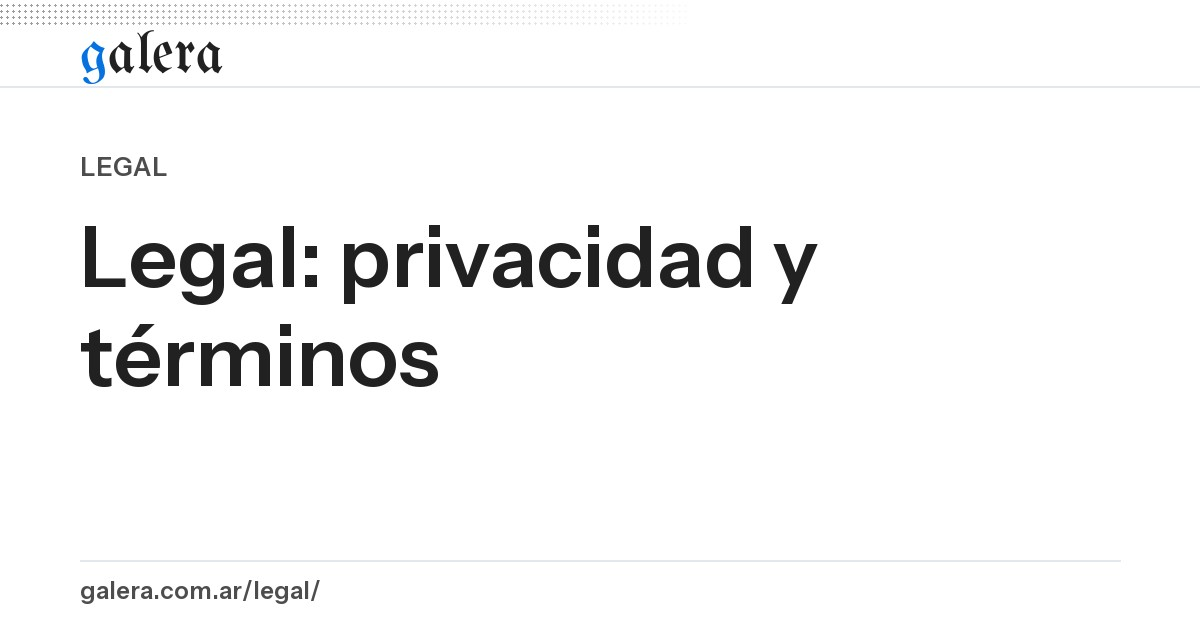
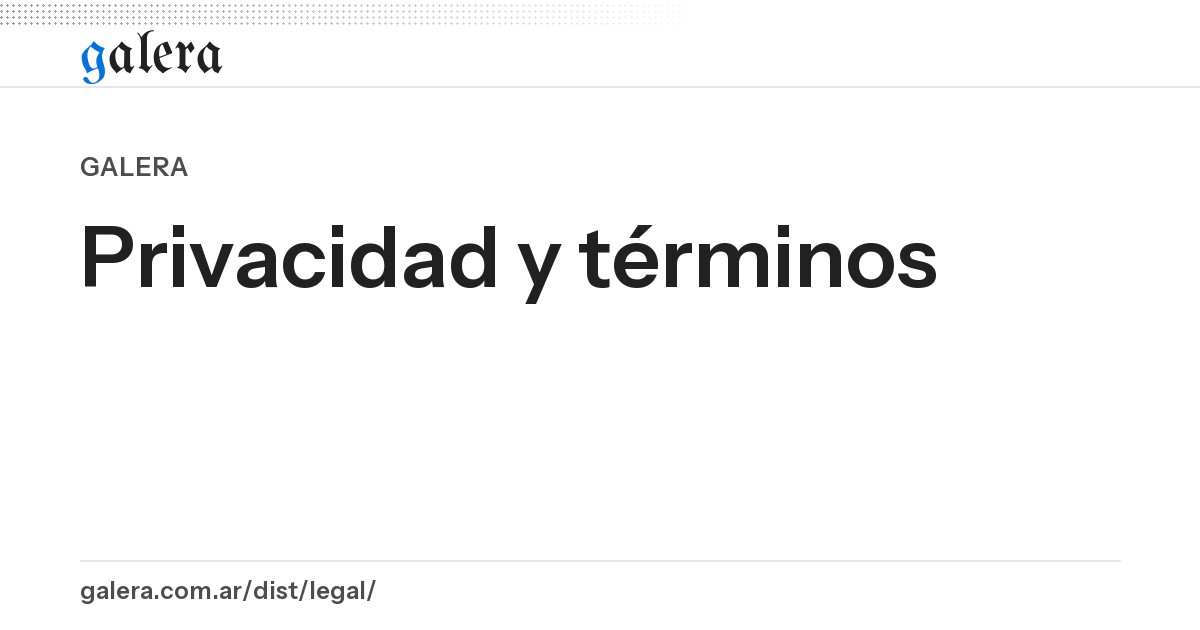
v108: Privacidad y «Cómo se sostiene», rehechas (#29)
* v108: privacidad y Cómo se sostiene con la capa gl-, mecenas y plan al día

* v108: revisión: g azul de la cabecera, costos sin placeholders

---------

diff --git a/sostener/index.html b/sostener/index.html
@@ -5,16 +5,16 @@
 <meta name="viewport" content="width=device-width, initial-scale=1">
 <!--marco:csp-->
 <!--marco:meta-->
-<!-- Página de Galera (la arma 104-edicion-cursada/sostener_web.py: no editar a mano). -->
+<!-- La arma propuestas/2026-10-31-revamp-galera/gen_legal_sostener.py a partir de datos/: no editar a mano. -->
 <title>Cómo se sostiene Galera: horas, costos y plan</title>
-<meta name="description" content="Cuántas horas de trabajo lleva Galera, qué cuesta, cómo ayudar si querés y el plan de lo que viene. Gratis, sin cuenta y sin publicidad.">
+<meta name="description" content="Cuántas horas de trabajo lleva Galera, qué cuesta, cómo ayudar con plata o con tiempo y el plan de lo que viene. Gratis, sin cuenta y sin publicidad.">
 <meta name="robots" content="index, follow">
 <link rel="canonical" href="https://galera.com.ar/sostener/">
 <meta property="og:type" content="website">
 <meta property="og:site_name" content="Galera · Edición (UBA)">
 <meta property="og:locale" content="es_AR">
 <meta property="og:title" content="Cómo se sostiene Galera: horas, costos y plan">
-<meta property="og:description" content="Cuántas horas de trabajo lleva Galera, qué cuesta, cómo ayudar si querés y el plan de lo que viene. Gratis, sin cuenta y sin publicidad.">
+<meta property="og:description" content="Cuántas horas de trabajo lleva Galera, qué cuesta, cómo ayudar con plata o con tiempo y el plan de lo que viene. Gratis, sin cuenta y sin publicidad.">
 <meta property="og:url" content="https://galera.com.ar/sostener/">
 <meta property="og:image" content="https://galera.com.ar/sostener/img/sostener.jpg">
 <meta property="og:image:type" content="image/jpeg">
@@ -23,30 +23,44 @@
 <meta property="og:image:alt" content="Cómo se sostiene Galera: horas de trabajo, costos y plan">
 <meta name="twitter:card" content="summary_large_image">
 <!--marco:recursos-->
-<script type="application/ld+json">{"@context": "https://schema.org", "@type": "WebPage", "name": "Cómo se sostiene Galera", "description": "Cuántas horas de trabajo lleva Galera, qué cuesta, cómo ayudar si querés y el plan de lo que viene. Gratis, sin cuenta y sin publicidad.", "url": "https://galera.com.ar/sostener/", "inLanguage": "es-AR", "image": "https://galera.com.ar/sostener/img/sostener.jpg", "author": {"@type": "Person", "name": "Fidel Chaves", "url": "https://ficha.github.io/"}, "isPartOf": {"@type": "WebApplication", "name": "Galera", "url": "https://galera.com.ar/"}}</script>
+<script type="application/ld+json">{"@context": "https://schema.org", "@type": "WebPage", "name": "Cómo se sostiene Galera", "description": "Cuántas horas de trabajo lleva Galera, qué cuesta, cómo ayudar con plata o con tiempo y el plan de lo que viene. Gratis, sin cuenta y sin publicidad.", "url": "https://galera.com.ar/sostener/", "inLanguage": "es-AR", "image": "https://galera.com.ar/sostener/img/sostener.jpg", "dateModified": "2026-10-31", "author": {"@type": "Person", "name": "Fidel Chaves", "url": "https://ficha.github.io/"}, "isPartOf": {"@type": "WebApplication", "name": "Galera", "url": "https://galera.com.ar/"}}</script>
 <script type="application/ld+json">{"@context": "https://schema.org", "@type": "BreadcrumbList", "itemListElement": [{"@type": "ListItem", "position": 1, "name": "Galera", "item": "https://galera.com.ar/"}, {"@type": "ListItem", "position": 2, "name": "Cómo se sostiene", "item": "https://galera.com.ar/sostener/"}]}</script>
 </head>
 <body class="lectura">
 <!--marco:cabecera-->
 <main id="main" class="lectura-main">
 <nav class="migas chico tenue" aria-label="Ruta"><a href="/">Galera</a> › <span>Cómo se sostiene</span></nav>
-<article class="tarjeta apunte"><p class="chico tenue">Galera · Edición, FFyL, UBA</p><h1>Cómo se sostiene Galera</h1>
-<p>Galera es gratis, no pide cuenta y no tiene publicidad. La hace Fidel Chaves, estudiante de Edición. Esta página cuenta cuánto trabajo lleva, cuánto cuesta y cómo ayudar si querés.</p>
-<p class="acciones"><a class="btn" href="/#sostener" data-abrir="sostener" data-donde="arriba">Abrir en Galera</a></p>
-<h2>Horas de trabajo</h2>
-<p><b>27,6 horas</b> desde el 30 de septiembre de 2026, en 21 sesiones. Actualizado el 19 de octubre de 2026.</p>
-<ul><li>septiembre de 2026: 1,8 horas</li><li>octubre de 2026: 25,8 horas</li></ul>
-<p class="chico tenue">Cómo se cuenta: se toman todos los cambios que se guardaron en Galera y se juntan en sesiones (si entre un cambio y el siguiente pasaron menos de 2 horas, es la misma sesión). A cada sesión se le suman 30 minutos de arranque. Es una estimación, y se puede verificar en el <a href="https://github.com/Ficha/Ficha.github.io/commits/main/cursada" rel="noopener">historial público</a>.</p>
-<h2>Costos</h2>
-<ul><li>Claude Pro (la herramienta con la que se arma Galera): <b>USD 20 por mes + impuestos vigentes</b></li><li>Parte de ese gasto que va a Galera (se calcula con un script local, próximamente): <b>a calcular</b></li><li>Dominio: <b>$0</b></li><li>GitHub Pages (donde vive la página): <b>$0</b></li></ul>
-<p class="chico tenue">Actualizado el 15 de octubre de 2026.</p>
+<h1>Cómo se sostiene</h1>
+<p>Galera es gratis, no pide cuenta y no tiene publicidad. Acá está cuánto trabajo lleva, qué cuesta y cómo ayudar.</p>
+<div class="gl-doc gl-doc--izq">
+<div class="gl-principal">
+<p class="capital gl-lead">Galera la hago yo, Fidel Chaves, estudiante de Edición, en mi tiempo libre. No pide registro ni vende datos: lo que cargás queda en tu dispositivo.</p>
+<h2 id="horas">Horas de trabajo</h2>
+<p class="gl-cifra">Entre 25 y 36 horas</p>
+<p>de trabajo entre el 30 de septiembre de 2026 y el 20 de octubre de 2026; lo más probable, unas 30. Actualizado el 20 de octubre de 2026.</p>
+<p class="gl-chico">Cómo se cuenta: junto en una sola línea de tiempo cada cambio guardado en Galera y la hora de cada mensaje de mis sesiones de trabajo con Claude (solo la hora, nunca el contenido), y cuento una sesión mientras no pasen más de 10, 20 o 45 minutos sin actividad (más unos minutos de arranque). De ahí salen el mínimo, el valor central y el máximo. Es una estimación y no incluye el tiempo fuera de la pantalla, como pensar o probar en el celular. Solo con los cambios guardados, que cualquiera puede verificar en el <a href="https://github.com/Ficha/Ficha.github.io/commits/main/cursada" rel="noopener">historial público</a>, son 46,5 horas (sesiones de hasta dos horas entre cambios, más 30 minutos de arranque).</p>
+<h2 id="costos">Qué cuesta</h2>
+<ul class="gl-renglones"><li><span>Claude Pro (la herramienta con la que se arma Galera)</span><b>USD 20 por mes + impuestos vigentes</b></li><li><span>Parte de ese gasto que va a Galera <span class="gl-chico">Voy a medirlo con un script propio.</span></span><b>Sin calcular todavía</b></li><li><span>Dominio galera.com.ar <span class="gl-chico">Se renueva en NIC Argentina.</span></span><b>Un pago por año</b></li><li><span>GitHub Pages y Cloudflare (donde vive la página y los correos)</span><b>$0</b></li></ul>
+<p class="gl-chico">Actualizado el 31 de octubre de 2026.</p>
 <p>Con más apoyo podría pagar un plan superior de Claude y avanzar más frentes por semana.</p>
-<h2>Cómo ayudar</h2>
-<p>Podés transferir lo que quieras desde cualquier banco o billetera, sin comisión: alias <b>fidel.mercado</b> (el CVU está en la pantalla de la app). También podés invitarme un <a href="https://cafecito.app/fidelchaves" target="_blank" rel="noopener">cafecito</a>. ¿Querés ayudar de otra forma? Escribime a <a href="mailto:fidelchaves96@gmail.com">fidelchaves96@gmail.com</a>.</p>
-<h2>Tu ayuda me permitiría seguir con este plan</h2>
-<h3>Ahora</h3><ul><li><b>Cómo se sostiene</b> (Listo): Esta pantalla: cuántas horas lleva Galera, qué cuesta y cómo ayudar.</li><li><b>Fichas de leyes del libro y del autor</b> (Planeado): Un resumen en palabras simples de las leyes que importan en edición.</li><li><b>Resúmenes de Derechos Editoriales y del Autor</b> (Planeado): Apuntes para estudiar la materia, con autoevaluación.</li><li><b>Botón Compartir</b> (Listo): Mandar por WhatsApp o copiar el link de la pantalla que estás viendo.</li></ul><h3>Verano</h3><ul><li><b>Simuladores nuevos</b> (Planeado): Más calculadoras y mapas para hacer las cuentas del oficio.</li><li><b>Generador de contratos para profesionales</b> (Planeado): Armar un contrato de edición a partir de modelos, para revisarlo con un abogado.</li><li><b>Tarifario del sector</b> (Planeado): Cuánto se cobra por corrección, traducción, diseño y otras tareas editoriales.</li><li><b>Mapa de editoriales argentinas</b> (Planeado): Dónde están las editoriales del país y qué publican.</li><li><b>Nueva organización en 5 secciones con buscador único</b> (Planeado): Encontrar todo más rápido, con un solo lugar para buscar.</li><li><b>Pasar tus datos a otro dispositivo</b> (Planeado): Seguir en el celular lo que hiciste en la compu, con un link o un código QR.</li></ul><h3>1.er cuatrimestre 2027</h3><ul><li><b>Herramientas del libro para profesionales</b> (Planeado): Utilidades para quienes ya trabajan en edición, más allá de la cursada.</li><li><b>Más resúmenes según los aportes</b> (Planeado): Se suman materias y apuntes a medida que llegan textos para armarlos.</li></ul>
-<p class="acciones"><a class="btn" href="/#sostener" data-abrir="sostener" data-donde="abajo">Abrir en Galera</a></p>
-</article>
+<h2 id="ayudar">Trabajar conmigo y colaborar</h2>
+<p>Hay tres maneras de ayudar. Todas son opcionales.</p>
+<ul class="gl-formas">
+<li><b>Con plata</b><p>Un aporte único, del monto que quieras, por <a href="https://cafecito.app/fidelchaves" target="_blank" rel="noopener">Cafecito</a> o por transferencia al alias <b>fidel.mercado</b>, sin comisión. El CVU está en la <a href="/#sostener">pantalla de la app</a>.</p></li>
+<li><b>Con tiempo</b><p>Avisame de un error, sugerime lo que falta o mandame tus apuntes para sumarlos: los reviso a mano antes de publicarlos. Se hace desde «Contame qué falta» o por mail.</p></li>
+<li><b>Un proyecto en común</b><p>Si tenés un proyecto editorial en el que pueda sumar con corrección, redacción o armado de contenidos, contame. Escribime a <a href="mailto:hola@galera.com.ar">hola@galera.com.ar</a>.</p></li>
+</ul>
+<h2 id="mecenas">Mecenas</h2>
+<div class="gl-mecenas"><b>Todavía no hay mecenas.</b><p>Acá van a figurar quienes apoyen a Galera con un aporte y quieran que se sepa. Nadie figura sin que lo pida. Si hacés un aporte y querés estar, escribime a <a href="mailto:hola@galera.com.ar">hola@galera.com.ar</a> con el nombre que prefieras.</p></div>
+<h2 id="plan">Tu ayuda me permitiría seguir con este plan</h2>
+<h3>Ahora</h3><ul class="gl-plan"><li><div><b>Cómo se sostiene</b><p>Esta pantalla: cuántas horas lleva Galera, qué cuesta y cómo ayudar.</p></div><span class="gl-chip gl-chip--ok">Listo</span></li><li><div><b>Fichas de leyes del libro y del autor</b><p>Un resumen en palabras simples de las leyes que importan en edición. Ya hay una primera tanda publicada.</p></div><span class="gl-chip">En curso</span></li><li><div><b>Resúmenes de Derechos Editoriales y del Autor</b><p>Apuntes para estudiar la materia, con autoevaluación. Ya están los doce apuntes; faltan confirmar algunos datos marcados.</p></div><span class="gl-chip">En curso</span></li><li><div><b>Botón Compartir</b><p>Mandar por WhatsApp o copiar el link de la pantalla que estás viendo.</p></div><span class="gl-chip gl-chip--ok">Listo</span></li></ul><h3>Verano</h3><ul class="gl-plan"><li><div><b>Simuladores nuevos</b><p>Más calculadoras y mapas para hacer las cuentas del oficio. Ya están papel, formatos, paginación, cronograma, escandallo, comparador y ecosistema.</p></div><span class="gl-chip">En curso</span></li><li><div><b>Generador de contratos para profesionales</b><p>Armar un borrador de contrato de edición o de traducción a partir de modelos, para revisarlo con un abogado.</p></div><span class="gl-chip gl-chip--ok">Listo</span></li><li><div><b>Tarifario del sector</b><p>Cuánto se cobra por corrección, traducción, diseño y otras tareas editoriales.</p></div><span class="gl-chip gl-chip--ok">Listo</span></li><li><div><b>Mapa de editoriales argentinas</b><p>Dónde están las editoriales del país y qué publican, en el mapa del Directorio.</p></div><span class="gl-chip gl-chip--ok">Listo</span></li><li><div><b>Menú ordenado con buscador único</b><p>Encontrar todo más rápido. El menú ya está ordenado en cuatro grupos; falta el buscador único.</p></div><span class="gl-chip">En curso</span></li><li><div><b>Pasar tus datos a otro dispositivo</b><p>Seguir en el celular lo que hiciste en la compu, con un link o un código QR.</p></div><span class="gl-chip gl-chip--ok">Listo</span></li></ul><h3>1.er cuatrimestre 2027</h3><ul class="gl-plan"><li><div><b>Herramientas del libro para profesionales</b><p>Utilidades para quienes ya trabajan en edición, más allá de la cursada. Ya está el planificador de libros.</p></div><span class="gl-chip">En curso</span></li><li><div><b>Más resúmenes según los aportes</b><p>Se suman materias y apuntes a medida que llegan textos para armarlos. Hoy hay diez materias.</p></div><span class="gl-chip">En curso</span></li></ul>
+</div>
+<aside class="gl-riel" aria-label="Ayudar">
+<div class="gl-tarjeta"><h3>Invitame un cafecito</h3><p>Un aporte único, del monto que quieras.</p><a class="gl-btn" href="https://cafecito.app/fidelchaves" target="_blank" rel="noopener">Ir a Cafecito</a></div>
+<div class="gl-tarjeta"><h3>Transferencia</h3><p>Sin comisión, desde cualquier banco o billetera. Alias <b>fidel.mercado</b>.</p></div>
+<div class="gl-tarjeta"><h3>Escribime</h3><p>Para colaborar, sumar tus apuntes o proponer algo.</p><a class="gl-btn gl-btn--sec" href="mailto:hola@galera.com.ar">hola@galera.com.ar</a></div>
+</aside>
+</div>
 </main>
 <!--marco:pie-->
 <script src="/r/lectura.js"></script>

diff --git a/legal/index.html b/legal/index.html
@@ -5,48 +5,58 @@
 <meta name="viewport" content="width=device-width, initial-scale=1">
 <!--marco:csp-->
 <!--marco:meta-->
-<!-- Generada por propuestas/2026-10-29-repo-galera/gen_legal_404.py: no editar a mano. -->
-<title>Legal: privacidad y términos · Galera</title>
-<meta name="description" content="Qué datos guarda Galera, qué no y cómo cambiar tus permisos. Sitio gratuito, sin cuentas ni publicidad, para estudiantes de Edición (UBA).">
+<!-- La arma propuestas/2026-10-31-revamp-galera/gen_legal_sostener.py a partir de datos/: no editar a mano. -->
+<title>Privacidad y términos · Galera</title>
+<meta name="description" content="Qué datos guarda Galera, para qué y bajo qué condiciones se usa. Sitio gratuito, sin cuentas ni publicidad, para estudiantes de Edición (UBA).">
 <meta name="robots" content="index, follow">
+<link rel="canonical" href="https://galera.com.ar/legal/">
 <meta property="og:type" content="website">
 <meta property="og:site_name" content="Galera · Edición (UBA)">
 <meta property="og:locale" content="es_AR">
-<meta property="og:title" content="Legal: privacidad y términos · Galera">
-<meta property="og:description" content="Qué datos guarda Galera, qué no y cómo cambiar tus permisos. Sitio gratuito, sin cuentas ni publicidad, para estudiantes de Edición (UBA).">
+<meta property="og:title" content="Privacidad y términos · Galera">
+<meta property="og:description" content="Qué datos guarda Galera, para qué y bajo qué condiciones se usa. Sitio gratuito, sin cuentas ni publicidad, para estudiantes de Edición (UBA).">
 <meta property="og:url" content="https://galera.com.ar/legal/">
 <meta property="og:image" content="https://galera.com.ar/legal/img/legal.jpg">
 <meta property="og:image:type" content="image/jpeg">
 <meta property="og:image:width" content="1200">
 <meta property="og:image:height" content="630">
-<meta property="og:image:alt" content="Legal: privacidad y términos: Galera, gestor para la carrera de Edición">
+<meta property="og:image:alt" content="Privacidad y términos: Galera, gestor para la carrera de Edición">
 <meta name="twitter:card" content="summary_large_image">
-<link rel="canonical" href="https://galera.com.ar/legal/">
 <!--marco:recursos-->
+<script type="application/ld+json">{"@context": "https://schema.org", "@type": "WebPage", "name": "Privacidad y términos", "description": "Qué datos guarda Galera, para qué y bajo qué condiciones se usa. Sitio gratuito, sin cuentas ni publicidad, para estudiantes de Edición (UBA).", "url": "https://galera.com.ar/legal/", "inLanguage": "es-AR", "image": "https://galera.com.ar/legal/img/legal.jpg", "dateModified": "2026-10-31", "author": {"@type": "Person", "name": "Fidel Chaves", "url": "https://ficha.github.io/"}, "isPartOf": {"@type": "WebApplication", "name": "Galera", "url": "https://galera.com.ar/"}}</script>
+<script type="application/ld+json">{"@context": "https://schema.org", "@type": "BreadcrumbList", "itemListElement": [{"@type": "ListItem", "position": 1, "name": "Galera", "item": "https://galera.com.ar/"}, {"@type": "ListItem", "position": 2, "name": "Legal", "item": "https://galera.com.ar/legal/"}]}</script>
 </head>
 <body class="lectura">
 <!--marco:cabecera-->
 <main id="main" class="lectura-main">
 <nav class="migas chico tenue" aria-label="Ruta"><a href="/">Galera</a> › <span>Legal</span></nav>
-<article class="apunte"><h1>Legal</h1><p>Qué es Galera, qué datos guarda y qué no, y a qué dirección escribir según el tema. Es un borrador: Fidel lo completa antes de la mudanza definitiva.</p>
-<h2 id="que-es">Qué es</h2><p>Galera es un gestor gratuito y sin publicidad para quienes estudian Edición (FFyL, UBA). No es un sitio oficial: para inscribirte y para los datos que valen, mirá el SIU Guaraní y el <a href="https://edicion.filo.uba.ar/" target="_blank" rel="noopener">Departamento de Edición</a>.</p>
-<h2 id="resumenes">Los resúmenes</h2><p>Salen de apuntes propios, hechos para estudiar. Pueden tener errores y no reemplazan la bibliografía ni las clases.</p>
-<h2 id="terminos">Términos de uso</h2>
-<p>Galera es gratuita y se ofrece tal como está, sin garantías: los datos, fechas y resúmenes pueden tener errores o quedar desactualizados, y no reemplazan el SIU Guaraní, el Departamento de Edición, la bibliografía ni las clases. Los enlaces a otros sitios se rigen por los términos de cada uno. El sitio puede cambiar o dejar de funcionar sin aviso previo. Si encontrás un error, escribí a <a href="mailto:soporte@galera.com.ar">soporte@galera.com.ar</a>.</p>
+<h1>Privacidad y términos</h1>
+<p>Qué datos guarda Galera, para qué y bajo qué condiciones se usa. Última actualización: 31 de octubre de 2026.</p>
+<div class="gl-doc">
+<aside class="gl-lateral" aria-label="En esta página"><p class="gl-rotulo">En esta página</p><nav class="gl-toc" aria-label="Secciones"><a href="#privacidad">Privacidad</a><a href="#datos">Qué guarda y dónde</a><a href="#derechos">Tus derechos</a><a href="#terminos">Términos y condiciones</a><a href="#uso">Uso y responsabilidad</a><a href="#contacto">Contacto</a></nav></aside>
+<div class="gl-principal">
 <h2 id="privacidad">Privacidad</h2>
-<p>Galera no tiene cuentas. Lo que no necesita, no lo pide.</p>
-<h3>Lo que queda en tu navegador</h3><p>Tus notas, materias, horarios y preferencias se guardan solo en este dispositivo (<code>localStorage</code>) y no llegan a ningún servidor. Desde «Tus datos», en <a href="/#config">Configuración</a>, podés guardar una copia, pasarlos a otro dispositivo o borrarlos.</p>
-<h3>Estadísticas</h3><p>Con tu permiso, Google Analytics cuenta las visitas (páginas vistas y de dónde llegás, sin tu nombre). Sin permiso, no se carga. Podés cambiar la elección cuando quieras desde el pie de cualquier página.</p>
-<h3>Lo que me mandás</h3><p>Si usás «Contame qué falta» o «Avisame por mail», el mensaje o la dirección de correo llegan a Fidel (a través de Google Apps Script y una planilla de Google) y se usan solo para responderte o enviarte las novedades. Cada mail trae el enlace «Darme de baja»: al usarlo, se borra tu dirección. Si no te funciona, escribí a <a href="mailto:privacidad@galera.com.ar">privacidad@galera.com.ar</a>.</p>
-<h3>Dónde se aloja</h3><p>El sitio se publica en GitHub Pages y el dominio se administra en Cloudflare; ambos pueden registrar datos técnicos de la conexión (como la dirección IP) por razones de seguridad. Las fuentes tipográficas son propias: no se piden a Google.</p>
-<h3>Tus derechos</h3><p>Podés pedir acceso, rectificación o supresión de los datos que me hayas enviado, escribiendo a <a href="mailto:privacidad@galera.com.ar">privacidad@galera.com.ar</a>. En Argentina, la Agencia de Acceso a la Información Pública es el órgano de control de la Ley 25.326 de protección de datos personales.</p>
-<h2 id="contacto">A quién escribir</h2>
-<ul>
-<li><b>Privacidad y datos personales:</b> <a href="mailto:privacidad@galera.com.ar">privacidad@galera.com.ar</a></li>
-<li><b>Algo no funciona, un error o una duda de uso:</b> <a href="mailto:soporte@galera.com.ar">soporte@galera.com.ar</a></li>
-<li><b>Prensa y medios:</b> <a href="mailto:prensa@galera.com.ar">prensa@galera.com.ar</a></li>
-<li><b>Todo lo demás:</b> <a href="mailto:hola@galera.com.ar">hola@galera.com.ar</a></li>
-</ul></article>
+<p class="capital">Galera es gratis, no tiene cuentas y no tiene publicidad. Casi todo lo que cargás (tus notas, tus materias, tus horarios) se queda en tu navegador y no llega a ningún servidor. Lo que no necesita, no lo pide.</p>
+<h3 id="datos">Qué guarda y dónde</h3>
+<p><b>En tu navegador.</b> Tus notas, materias, horarios y preferencias se guardan solo en este dispositivo (<code>localStorage</code>). Si borrás los datos del navegador, se pierden. Desde «Tus datos», en <a href="/#config">Configuración</a>, podés guardar una copia, pasarlos a otro dispositivo o borrarlos.</p>
+<p><b>Estadísticas.</b> Con tu permiso, Google Analytics cuenta las visitas (páginas vistas y de dónde llegás, sin tu nombre). Sin permiso, no se carga. Podés cambiar la elección cuando quieras desde el pie de cualquier página.</p>
+<p><b>Lo que me mandás.</b> Si usás «Contame qué falta» o «Avisame por mail», el mensaje o la dirección de correo me llegan (a través de Google Apps Script y una planilla de Google) y se usan solo para responderte o enviarte las novedades. Cada mail trae el enlace «Darme de baja»: al usarlo, se borra tu dirección. Si no te funciona, escribí a <a href="mailto:privacidad@galera.com.ar">privacidad@galera.com.ar</a>.</p>
+<p><b>Dónde se aloja.</b> El sitio se publica en GitHub Pages y el dominio se administra en Cloudflare; ambos pueden registrar datos técnicos de la conexión (como la dirección IP) por razones de seguridad. Las fuentes tipográficas son propias: no se piden a Google.</p>
+<p><b>Sitios de terceros.</b> Los enlaces a Cafecito, a editoriales o a la facultad te llevan a sitios con sus propias políticas.</p>
+<h3 id="derechos">Tus derechos</h3>
+<p>Podés pedir acceso, rectificación o supresión de los datos que me hayas enviado, escribiendo a <a href="mailto:privacidad@galera.com.ar">privacidad@galera.com.ar</a>. En Argentina, la Agencia de Acceso a la Información Pública es el órgano de control de la Ley 25.326 de protección de datos personales.</p>
+<h2 id="terminos">Términos y condiciones</h2>
+<p>Al usar Galera aceptás estas condiciones. Son pocas y están escritas para leerse.</p>
+<h3 id="uso">Uso y responsabilidad</h3>
+<p><b>Es un sitio independiente.</b> Galera no es un sitio oficial ni tiene relación con la Universidad de Buenos Aires ni con la Facultad de Filosofía y Letras. Para inscribirte y para los datos que valen, mirá el SIU Guaraní y el <a href="https://edicion.filo.uba.ar/" target="_blank" rel="noopener">Departamento de Edición</a>.</p>
+<p><b>La información es orientativa.</b> Los datos, las fechas y los resúmenes pueden tener errores o quedar desactualizados, y no reemplazan el SIU Guaraní, el Departamento de Edición, la bibliografía ni las clases.</p>
+<p><b>Los resúmenes.</b> Salen de apuntes propios, hechos para estudiar. Pueden tener errores y no reemplazan la bibliografía ni las clases.</p>
+<p><b>Sin garantías.</b> Galera es gratuita y se ofrece tal como está. Los enlaces a otros sitios se rigen por los términos de cada uno. El sitio puede cambiar o dejar de funcionar sin aviso previo. Si encontrás un error, escribí a <a href="mailto:soporte@galera.com.ar">soporte@galera.com.ar</a>.</p>
+<h3 id="contacto">Contacto</h3>
+<p>A quién escribir, según el tema:</p>
+<ul class="gl-renglones"><li><span>Privacidad y datos personales</span><span><a href="mailto:privacidad@galera.com.ar">privacidad@galera.com.ar</a></span></li><li><span>Algo no funciona, un error o una duda de uso</span><span><a href="mailto:soporte@galera.com.ar">soporte@galera.com.ar</a></span></li><li><span>Prensa y medios</span><span><a href="mailto:prensa@galera.com.ar">prensa@galera.com.ar</a></span></li><li><span>Todo lo demás</span><span><a href="mailto:hola@galera.com.ar">hola@galera.com.ar</a></span></li></ul>
+</div>
+</div>
 </main>
 <!--marco:pie-->
 <script src="/r/lectura.js"></script>

diff --git a/componentes.css b/componentes.css
@@ -320,3 +320,55 @@ main:has(>.gl-hor),main:has(>.gl-calx){max-width:1224px;padding:48px 16px 80px}
 .gl-cal-ag .gl-chico{display:block}.gl-hor .gl-tarjeta>.gl-cuerpo,.gl-calx .gl-tarjeta>.gl-cuerpo{margin:0}
 .gl-hor label.gl-chico{display:inline-flex;align-items:center;gap:8px;min-height:44px}
 @media (max-width:760px){.gl-cal-nav .gl-seg{flex-basis:auto}.gl-cal-nav .gl-crece{flex-basis:100%;height:0}.gl-cal-nav .gl-cal-tit{flex:1;min-width:0}}
+
+/* Documentos de lectura (Legal y Cómo se sostiene): hojas Legal y Sostiene del lienzo.
+   Contenedor 1224 (el de .lectura-main); lateral 240–288 y texto hasta 704, o texto 720 y riel 288. */
+.gl-doc{display:flex;flex-wrap:wrap;gap:32px 24px;align-items:flex-start;justify-content:center;margin-top:48px}
+.gl-doc>.gl-lateral,.gl-doc>.gl-riel{flex:1 1 240px;max-width:288px}
+.gl-doc>.gl-principal{flex:1 1 480px;max-width:704px;min-width:0}
+.gl-doc--izq{justify-content:flex-start}.gl-doc--izq>.gl-principal{max-width:720px}
+.gl-doc h2{margin:48px 0 0;font:600 28px/36px var(--gl-sans);letter-spacing:-.02em;color:var(--gl-ink);scroll-margin-top:24px}
+.gl-doc h2:first-child{margin-top:0}
+.gl-doc h3{margin:32px 0 0;font:600 20px/28px var(--gl-sans);color:var(--gl-ink);scroll-margin-top:24px}
+.gl-doc p{margin:12px 0 0;font:400 18px/30px var(--gl-serif);color:var(--gl-ink);max-width:66ch}
+.gl-doc p.gl-chico{font:400 14px/20px var(--gl-sans);color:var(--gl-t2)}
+.gl-doc p.gl-lead{font-size:20px;line-height:32px;margin-top:0}
+.gl-doc p a,.gl-doc li a,.gl-doc .gl-chico a{color:var(--gl-lnk);text-decoration:underline;text-underline-offset:3px}
+.gl-doc code{font:500 .88em var(--gl-sans);padding:1px 4px;border-radius:var(--gl-r);background:var(--gl-card)}
+.gl-doc p.capital::first-letter{color:var(--gl-mark)}
+.gl-toc{border-bottom:1px solid var(--gl-line)}
+.gl-toc a{display:flex;align-items:center;min-height:44px;padding:0 12px;border-top:1px solid var(--gl-line);font:400 16px/24px var(--gl-sans);color:var(--gl-t2);text-decoration:none}
+.gl-toc a:hover{color:var(--gl-lnk)}
+.gl-toc a:focus-visible,.gl-doc a:focus-visible{outline:2px solid var(--gl-ink);outline-offset:2px}
+.gl-renglones{margin:16px 0 0;padding:0;list-style:none;border-bottom:1px solid var(--gl-line)}
+.gl-renglones li{display:flex;justify-content:space-between;align-items:baseline;gap:8px 16px;flex-wrap:wrap;padding:16px 0;border-top:1px solid var(--gl-line);font:400 16px/24px var(--gl-sans);color:var(--gl-ink)}
+.gl-renglones li>span:last-child,.gl-renglones li>b{color:var(--gl-t2);font-variant-numeric:tabular-nums}
+.gl-renglones .gl-chico{display:block;width:100%;margin:0}
+.gl-doc p.gl-cifra{margin:16px 0 0;font:600 36px/40px var(--gl-sans);letter-spacing:-.02em;color:var(--gl-ink)}
+.gl-doc p.gl-cifra+p{margin-top:4px}
+.gl-doc .gl-tarjeta h3{margin:0;font:600 12px/16px var(--gl-sans);letter-spacing:.06em;text-transform:uppercase;color:var(--gl-t2)}
+.gl-doc .gl-tarjeta p{margin:0;font:400 16px/24px var(--gl-sans)}
+.gl-doc .gl-tarjeta .gl-btn{align-self:stretch;margin-top:8px}
+.gl-doc .gl-riel>.gl-tarjeta+.gl-tarjeta{margin-top:16px}
+.gl-doc .gl-riel .gl-tarjeta{padding:24px;gap:12px}
+.gl-formas{margin:16px 0 0;padding:0;list-style:none;display:grid;gap:16px}
+.gl-formas li{padding:16px;border-radius:var(--gl-r);background:var(--gl-card)}
+.gl-formas li>b{display:block;font:600 16px/24px var(--gl-sans);color:var(--gl-ink)}
+.gl-doc .gl-formas p{margin:4px 0 0;font:400 16px/24px var(--gl-sans);color:var(--gl-t2)}
+.gl-mecenas{margin:16px 0 0;padding:24px;border-radius:var(--gl-r);background:var(--gl-card)}
+.gl-mecenas>b{display:block;font:600 16px/24px var(--gl-sans);color:var(--gl-ink)}
+.gl-doc .gl-mecenas p{margin:4px 0 0;font:400 16px/24px var(--gl-sans);color:var(--gl-t2)}
+.gl-mecenas-lista{margin:16px 0 0;padding:0;list-style:none;display:grid;grid-template-columns:repeat(auto-fill,minmax(200px,1fr));gap:12px}
+.gl-mecenas-lista li{padding:16px;border-radius:var(--gl-r);background:var(--gl-card);font:600 16px/24px var(--gl-sans);color:var(--gl-ink)}
+.gl-mecenas-lista li small{display:block;font:400 14px/20px var(--gl-sans);color:var(--gl-t2)}
+.gl-plan{margin:12px 0 0;padding:0;list-style:none;border-bottom:1px solid var(--gl-line)}
+.gl-plan li{display:flex;justify-content:space-between;align-items:flex-start;gap:8px 16px;padding:16px 0;border-top:1px solid var(--gl-line)}
+.gl-plan b{display:block;font:600 16px/24px var(--gl-sans);color:var(--gl-ink)}
+.gl-doc .gl-plan p{margin:2px 0 0;font:400 14px/20px var(--gl-sans);color:var(--gl-t2)}
+.gl-plan .gl-chip{flex:none;margin-top:2px}
+@media (max-width:760px){
+  .gl-doc>.gl-lateral,.gl-doc>.gl-riel,.gl-doc>.gl-principal,.gl-doc--izq>.gl-principal{max-width:none;flex-basis:100%}
+  .gl-doc h2{font-size:24px;line-height:30px}
+  .gl-doc p{font-size:17px;line-height:28px}
+  .gl-doc p.gl-lead{font-size:18px;line-height:30px}
+}

diff --git a/galera.css b/galera.css
@@ -59,6 +59,7 @@ h1,h2,h3,.portada h2,.practica h2,.nov-t,.perfil b,.avance b,.recorrido .area{fo
 /* Páginas estáticas de lectura (resúmenes, biblioteca, glosario…): mismo nombre en la cabecera */
 .lectura .marca .nombre{font-family:var(--gotica);font-weight:400;font-size:32px;line-height:28px;letter-spacing:0;margin:0;padding:10px 20px 10px 0}
 .lectura .marca .nombre a::first-letter{color:var(--marca)}
+.lectura .marca .nombre a{display:inline-block;padding:8px 0}
 .lectura .apunte h1,.lectura .apunte h2,.lectura .apunte h3{font-family:var(--fuente)}
 
 /* Cinta de puntos sobre la cabecera y dentro del pie (lienzo Cabecera y Pie) */
@@ -73,6 +74,7 @@ h1,h2,h3,.portada h2,.practica h2,.nov-t,.perfil b,.avance b,.recorrido .area{fo
 .pie-nombre{font-family:var(--gotica);font-weight:400;font-size:32px;line-height:28px;letter-spacing:0;margin:0}
 .pie-nombre .logo{display:none}
 .pie-nombre a{color:var(--texto);text-decoration:none}
+.pie-nombre a{display:inline-flex;align-items:center;min-height:44px}
 .pie-nombre .g{color:var(--marca)}
 .pie-marca p{max-width:28ch;margin:16px 0 24px;font-size:14px;line-height:20px;color:var(--texto2)}
 .pie-marca .pie-nombre{max-width:none;margin:0;font-size:32px;line-height:28px;color:var(--texto)}
